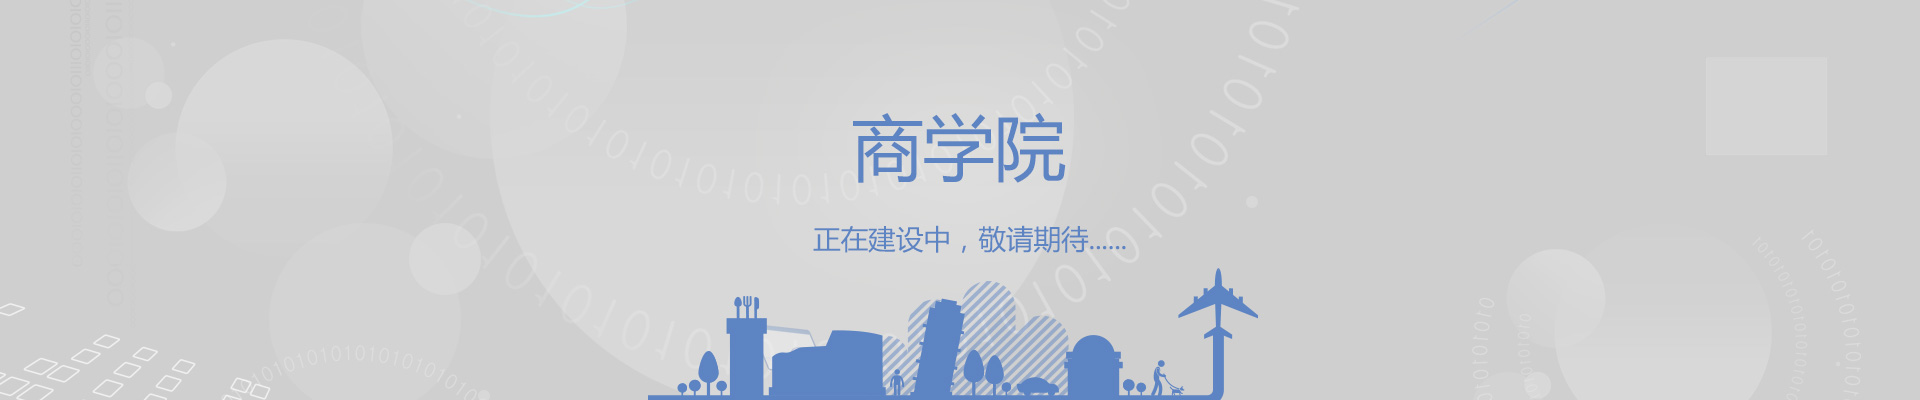
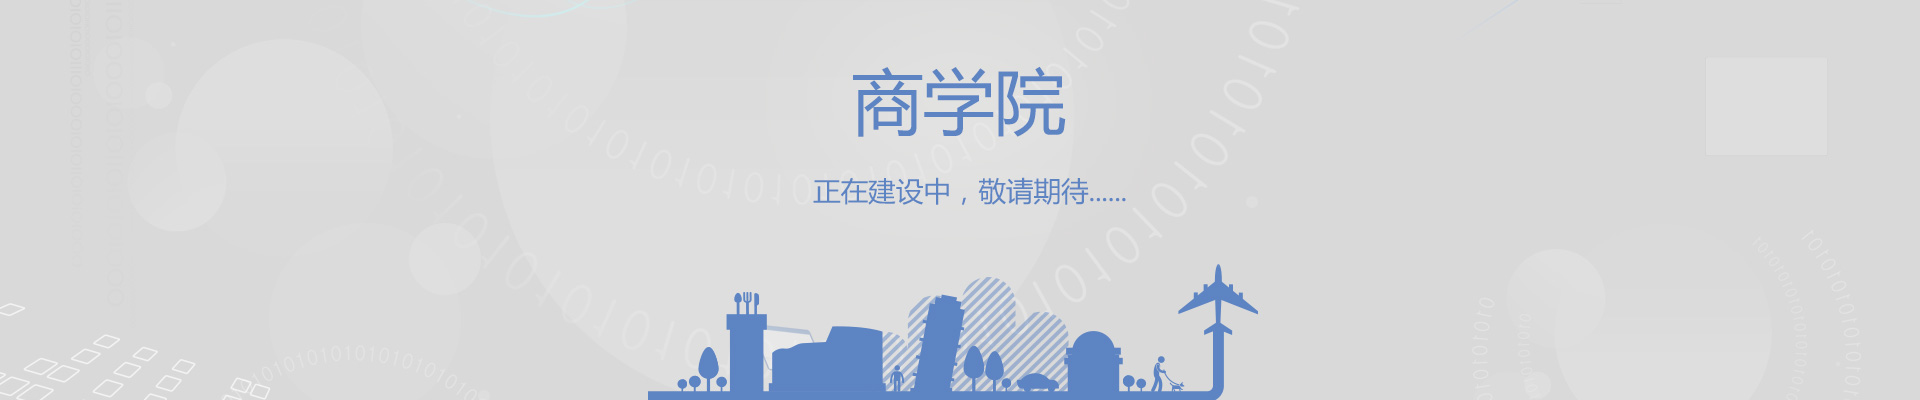
update school.jpg

diff --git a/css/index.css b/css/index.css
@@ -242,6 +242,8 @@
 }
 
 .joinus h1{
+    font-weight:600;
+    font-family: "Microsoft YaHei", sans-serif;
     margin: 0;
     left:50%;
     margin-left: -2em;
@@ -254,7 +256,7 @@
 .joinus p{
     position: absolute;
     color: #fff;
-    top:6.2em;
+    top: 7em;
     left: 50%;
     margin-left: -1.5em;
 }
